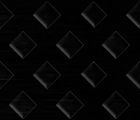
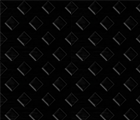
new bgTile.png

diff --git a/css/auto.php b/css/auto.php
@@ -250,9 +250,7 @@ div#statBar{
     posAbs();
     css::size('100%', '15%');
 ?>
-    /*background-color:red;*/
 	background: url('../images/statBarTile.png');
-	/*background-size : 100%,40%;*/
 	top:0%;
 	left:0%;
 	
@@ -293,7 +291,7 @@ div#reg-navigation{
     right:0%;
     text-align:center;
     z-index:3;
-	top : 7%;
+	top : 9%;
 	
 }
 div#reg-navigation a{
@@ -305,7 +303,7 @@ div#reg-navigation a{
     font-weight: bold;
     text-decoration: none;
 	padding : 2%;
-	top : 7%;
+	top : 9%;
 }
 div#reg-navigation a:hover{
 <?php
@@ -315,7 +313,7 @@ div#reg-navigation a:hover{
 ?>  
 	color:green;
 	padding : 2%;
-	top : 7%;
+	top : 9%;
 }
 /* visited link */
 #div#main a:visited {
